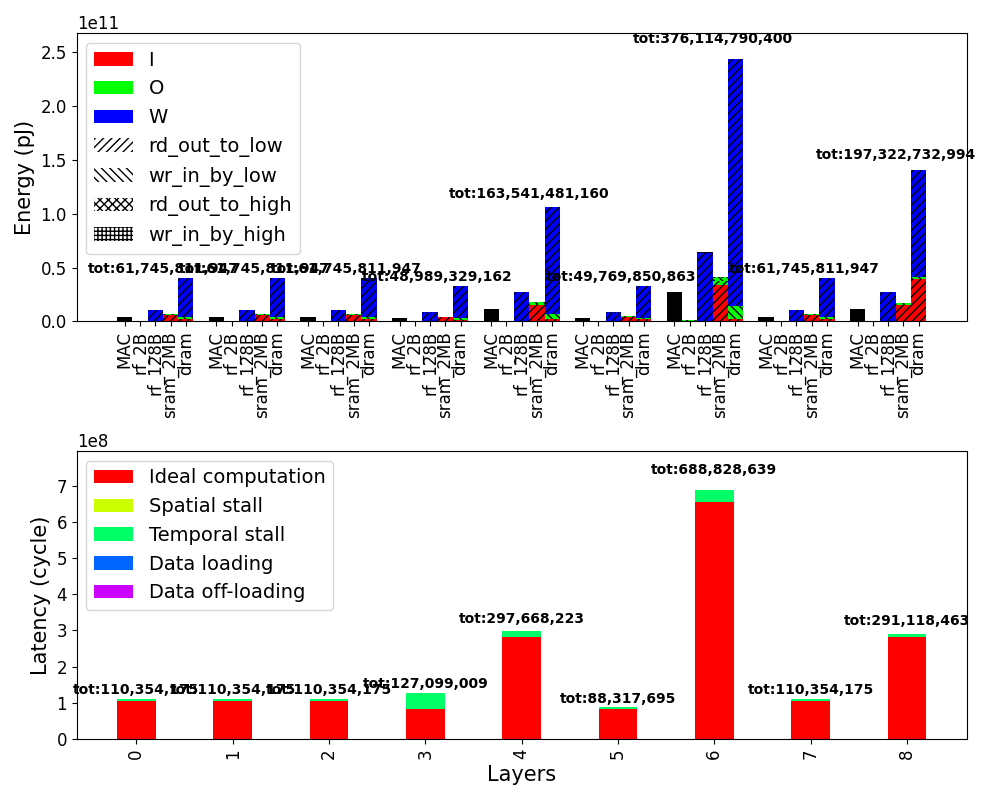
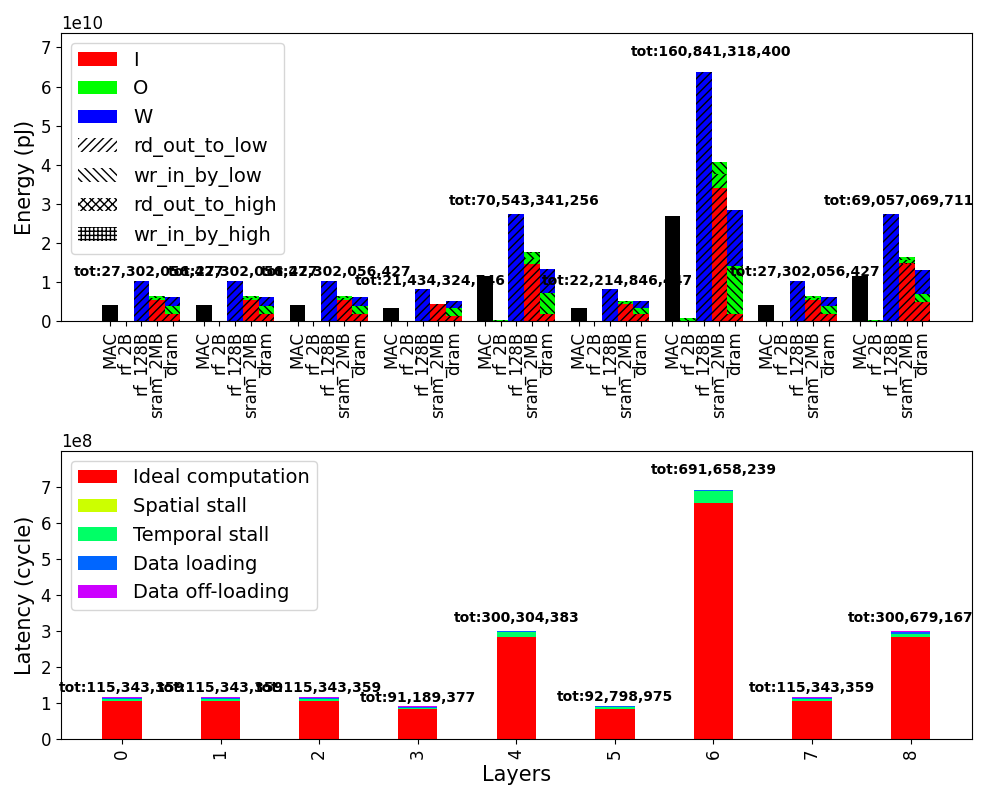
add quantization info attribute to onnx nodes

diff --git a/export_onnx.py b/export_onnx.py
@@ -1,0 +1,53 @@
+from typing import Any
+import onnx
+from onnx import NodeProto
+import torch
+
+from src.transformer_model import LanguageModel
+from src.config import LLAMA_7B, W8A8, LLMConfig, QuantConfig
+
+
+def export_transformer_to_onnx(llm_config: LLMConfig, quant_config: QuantConfig):
+    path = "out/custom_transformer.onnx"
+    model = LanguageModel(llm_config)
+    dummy_input = torch.randint(low=0, high=255, size=(llm_config.batch_size, llm_config.seq_len))
+
+    torch.onnx.export(  # type: ignore
+        model,
+        dummy_input,
+        path,
+        export_params=False,
+        opset_version=16,
+        do_constant_folding=True,
+        input_names=["input"],
+        output_names=["output"],
+        verbose=False,
+        dynamic_axes={"input": {0: "batch_size"}, "output": {0: "batch_size"}},
+    )
+
+    # Perform shape inference in-place
+    onnx.shape_inference.infer_shapes_path(path, path)  # type: ignore
+
+    # Prepare for quantization # NOTE this seems to do the same as `infer_shapes_path`
+    # quantization.shape_inference.quant_pre_process(path, path)  # type: ignore
+
+    # Add attribute with quantization info, to be used in Zigzag
+    onnx_model = onnx.load(path)  # type: ignore
+    onnx.checker.check_model(onnx_model)  # type: ignore
+    for node in onnx_model.graph.node:
+        if node.op_type in ["Add", "Matmul", "Gemm", "Softmax"]:
+            add_attribute_to_onnx_node(node, "weight_size", quant_config.weight_bits)
+            add_attribute_to_onnx_node(node, "act_size", quant_config.act_bits)
+
+    onnx.save_model(onnx_model, path)  # type: ignore
+
+
+def add_attribute_to_onnx_node(node: NodeProto, key: str, val: Any):
+    attr = onnx.helper.make_attribute(key, val)
+    node.attribute.extend([attr])
+
+
+if __name__ == "__main__":
+    llm_config = LLAMA_7B.to_simulatable_config()
+    quant_config = W8A8
+    export_transformer_to_onnx(llm_config, quant_config)

diff --git a/src/config.py b/src/config.py
@@ -29,6 +29,30 @@ class LLMConfig:
         )
 
 
+@dataclass
+class QuantConfig:
+    act_bits: int
+    weight_bits: int
+
+
+# class FullConfig:
+
+#     def __init__(self, llm_config: LLMConfig, quant_config: QuantConfig):
+
+#         # Unpack
+#         self.batch_size = llm_config.batch_size
+#         self.seq_len = llm_config.seq_len
+#         self.embedding_dim = llm_config.embedding_dim
+#         self.dim_ff = llm_config.dim_ff
+#         self.num_head = llm_config.num_head
+#         self.num_layer = llm_config.num_layer
+#         self.vocab_size = llm_config.vocab_size
+#         self.act_bits = quant_config.act_bits
+#         self.weight_bits = quant_config.weight_bits
+
+
+W8A8 = QuantConfig(8, 8)
+
 LLAMA_7B = LLMConfig(
     batch_size=1,
     seq_len=4096,

diff --git a/main.py b/main.py
@@ -5,7 +5,6 @@ from zigzag.visualization.results.plot_cme import (
 )
 
 from src.config import LLAMA_13B
-from src.export_onnx import export_transformer_to_onnx
 
 model = LLAMA_13B
 workload_path = "out/custom_transformer.onnx"
@@ -20,7 +19,8 @@ if RE_RUN:
         workload=workload_path,
         accelerator=accelerator_path,
         mapping=mapping_path,
-        opt="energy",
+        opt="EDP",
+        dump_folder="outputs",
         pickle_filename=pickle_filename,
         nb_spatial_mappings_generated=1,
     )

diff --git a/src/transformer_model.py b/src/transformer_model.py
@@ -17,7 +17,7 @@ class Matmul(nn.Module):
     """Wrap Torch Matmul operator so that the operation can be given a custom name that is exported to ONNX"""
 
     def forward(self, a: Tensor, b: Tensor):
-        return a @ b  #
+        return a @ b
 
 
 class Head(nn.Module):
